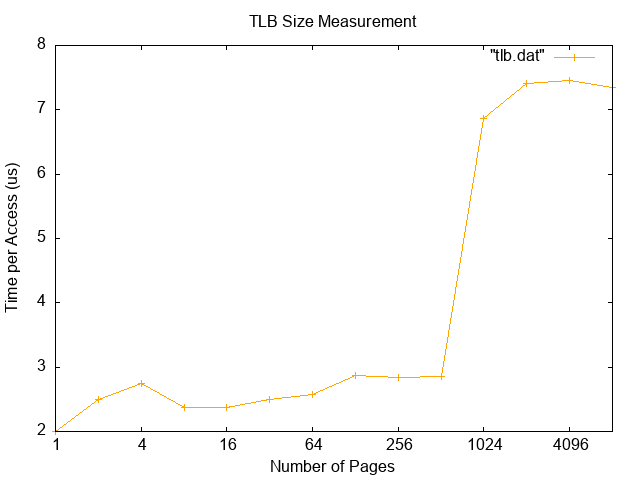
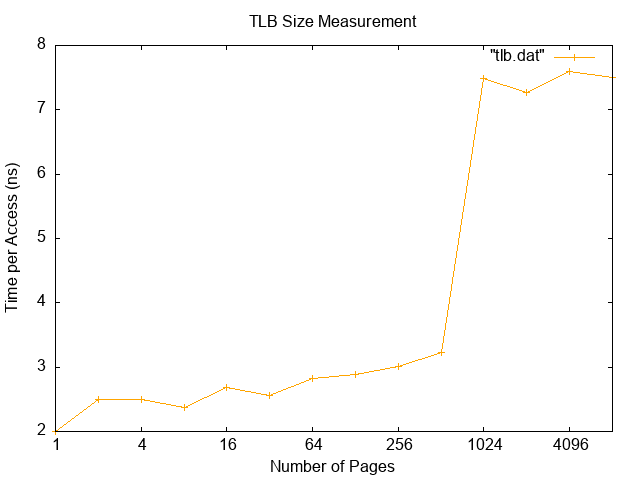
Cleanup

diff --git a/tlb.c b/tlb.c
@@ -55,11 +55,11 @@ int main(int argc, char* argv[]) {
 
     // Simple arithmetic to measure access time
     double duration;
-    duration = ((double) (time_stop - time_start));
+    duration = ((double) (time_stop - time_start)); 
 
-    double time_per_access = duration / (NUM_PAGES);
+    double time_per_access_ns = duration / (NUM_PAGES) / (NUM_TRIALS) * 1000;
 
-    printf("%ld\t %f\t \n", NUM_PAGES, time_per_access);
+    printf("%ld\t %f\t \n", NUM_PAGES, time_per_access_ns);
     
     free(a);
     
